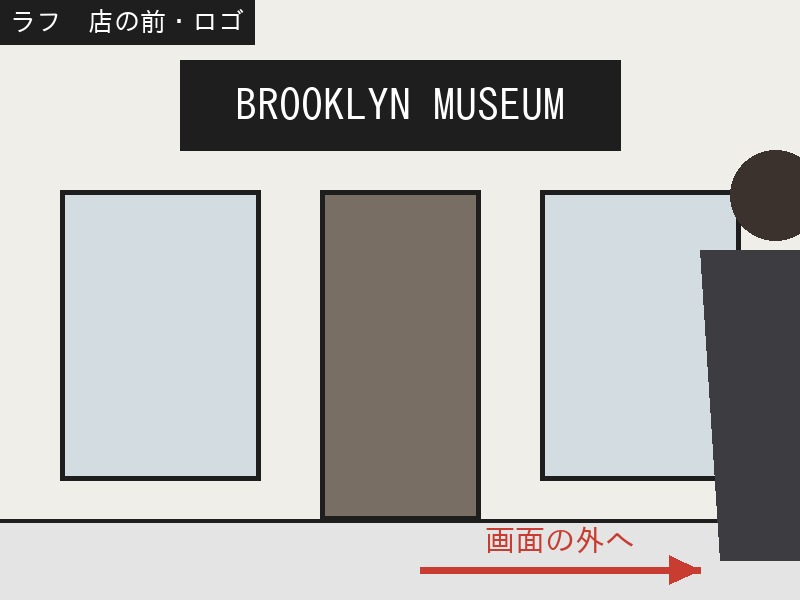
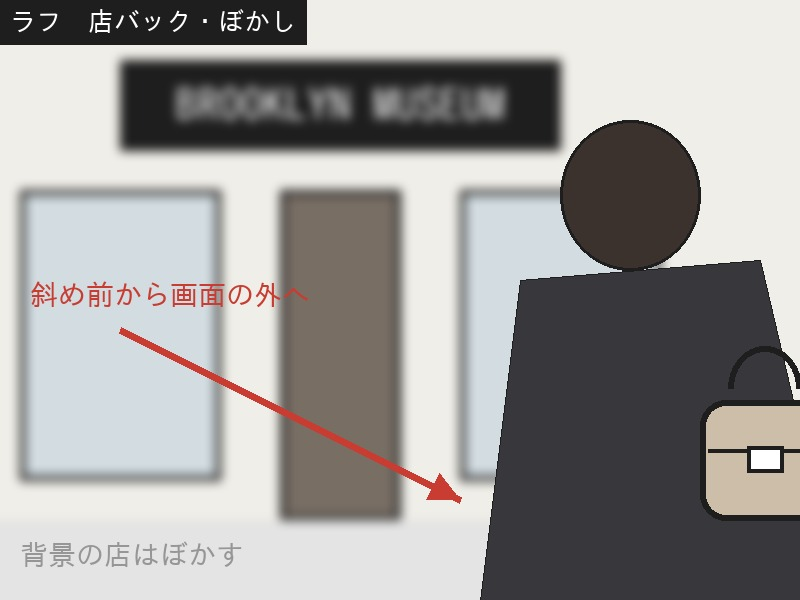
上里さん❷ショット9：店をぼかした背景にし、斜め前からフレームアウトする画に
Claude-Session: https://claude.ai/code/session_01BfbN5jHJfa7zbZdrxGCBGx

diff --git a/pdf/ue1008_ekonte.html b/pdf/ue1008_ekonte.html
@@ -1,1 +1,1 @@
-<html><head><meta charset="utf-8"></head><body style="font-family:Arial"><h2 style="margin:0 0 4pt">❶絵コンテ　3秒　計12秒　参考<a href="https://www.instagram.com/reel/DbGnXCnRMrT/?stkn=MWhvbGVkamlwd3Nn">Link</a></h2><table style="border-collapse:collapse"><tr><td width="25%" style="border:1px solid #999;padding:3px;text-align:center"><img src="https://raw.githubusercontent.com/Shiori0415/dougaseisaku/claude/4-sheets-later-l5chh0/assets/ue1008/t_a1.jpg" width="130" height="305"></td><td width="25%" style="border:1px solid #999;padding:3px;text-align:center"><img src="https://raw.githubusercontent.com/Shiori0415/dougaseisaku/claude/4-sheets-later-l5chh0/assets/ue1008/t_a2.jpg" width="130" height="305"></td><td width="25%" style="border:1px solid #999;padding:3px;text-align:center"><img src="https://raw.githubusercontent.com/Shiori0415/dougaseisaku/claude/4-sheets-later-l5chh0/assets/ue1008/t_a3.jpg" width="130" height="305"></td><td width="25%" style="border:1px solid #999;padding:3px;text-align:center"><img src="https://raw.githubusercontent.com/Shiori0415/dougaseisaku/claude/4-sheets-later-l5chh0/assets/ue1008/t_a4.jpg" width="130" height="305"></td></tr></table><h2 style="margin:8pt 0 4pt">❷絵コンテ　1秒〜3秒　計20秒　参考<a href="https://www.instagram.com/reel/DdEWeatvvig/?stkn=MWN1aDVpdzZnOGZ0ZQ==">Link</a></h2><table style="border-collapse:collapse"><tr><td width="50%" style="border:1px solid #999;padding:3px;text-align:center"><img src="https://raw.githubusercontent.com/Shiori0415/dougaseisaku/claude/4-sheets-later-l5chh0/assets/ue1008/t_s1c.jpg" width="230" height="200"></td><td width="50%" style="border:1px solid #999;padding:3px;text-align:center"><img src="https://raw.githubusercontent.com/Shiori0415/dougaseisaku/claude/4-sheets-later-l5chh0/assets/ue1008/t_s2.jpg" width="230" height="200"></td></tr><tr><td width="50%" style="border:1px solid #999;padding:3px;text-align:center"><img src="https://raw.githubusercontent.com/Shiori0415/dougaseisaku/claude/4-sheets-later-l5chh0/assets/ue1008/t_s3.jpg" width="230" height="200"></td><td width="50%" style="border:1px solid #999;padding:3px;text-align:center"><img src="https://raw.githubusercontent.com/Shiori0415/dougaseisaku/claude/4-sheets-later-l5chh0/assets/ue1008/t_s4.jpg" width="230" height="200"></td></tr><tr><td width="50%" style="border:1px solid #999;padding:3px;text-align:center"><img src="https://raw.githubusercontent.com/Shiori0415/dougaseisaku/claude/4-sheets-later-l5chh0/assets/ue1008/t_s5.jpg" width="230" height="200"></td><td width="50%" style="border:1px solid #999;padding:3px;text-align:center"><img src="https://raw.githubusercontent.com/Shiori0415/dougaseisaku/claude/4-sheets-later-l5chh0/assets/ue1008/t_s6.jpg" width="230" height="200"></td></tr><tr><td width="50%" style="border:1px solid #999;padding:3px;text-align:center"><img src="https://raw.githubusercontent.com/Shiori0415/dougaseisaku/claude/4-sheets-later-l5chh0/assets/ue1008/t_s7.jpg" width="230" height="200"></td><td width="50%" style="border:1px solid #999;padding:3px;text-align:center"><img src="https://raw.githubusercontent.com/Shiori0415/dougaseisaku/claude/4-sheets-later-l5chh0/assets/ue1008/t_s8.jpg" width="230" height="200"></td></tr><tr><td width="50%" style="border:1px solid #999;padding:3px;text-align:center"><img src="https://raw.githubusercontent.com/Shiori0415/dougaseisaku/claude/4-sheets-later-l5chh0/assets/ue1008/t_s9b.jpg" width="230" height="200"></td><td width="50%" style="border:1px solid #999;padding:3px;text-align:center"></td></tr></table></body></html>
+<html><head><meta charset="utf-8"></head><body style="font-family:Arial"><h2 style="margin:0 0 4pt">❶絵コンテ　3秒　計12秒　参考<a href="https://www.instagram.com/reel/DbGnXCnRMrT/?stkn=MWhvbGVkamlwd3Nn">Link</a></h2><table style="border-collapse:collapse"><tr><td width="25%" style="border:1px solid #999;padding:3px;text-align:center"><img src="https://raw.githubusercontent.com/Shiori0415/dougaseisaku/claude/4-sheets-later-l5chh0/assets/ue1008/t_a1.jpg" width="130" height="305"></td><td width="25%" style="border:1px solid #999;padding:3px;text-align:center"><img src="https://raw.githubusercontent.com/Shiori0415/dougaseisaku/claude/4-sheets-later-l5chh0/assets/ue1008/t_a2.jpg" width="130" height="305"></td><td width="25%" style="border:1px solid #999;padding:3px;text-align:center"><img src="https://raw.githubusercontent.com/Shiori0415/dougaseisaku/claude/4-sheets-later-l5chh0/assets/ue1008/t_a3.jpg" width="130" height="305"></td><td width="25%" style="border:1px solid #999;padding:3px;text-align:center"><img src="https://raw.githubusercontent.com/Shiori0415/dougaseisaku/claude/4-sheets-later-l5chh0/assets/ue1008/t_a4.jpg" width="130" height="305"></td></tr></table><h2 style="margin:8pt 0 4pt">❷絵コンテ　1秒〜3秒　計20秒　参考<a href="https://www.instagram.com/reel/DdEWeatvvig/?stkn=MWN1aDVpdzZnOGZ0ZQ==">Link</a></h2><table style="border-collapse:collapse"><tr><td width="50%" style="border:1px solid #999;padding:3px;text-align:center"><img src="https://raw.githubusercontent.com/Shiori0415/dougaseisaku/claude/4-sheets-later-l5chh0/assets/ue1008/t_s1c.jpg" width="230" height="200"></td><td width="50%" style="border:1px solid #999;padding:3px;text-align:center"><img src="https://raw.githubusercontent.com/Shiori0415/dougaseisaku/claude/4-sheets-later-l5chh0/assets/ue1008/t_s2.jpg" width="230" height="200"></td></tr><tr><td width="50%" style="border:1px solid #999;padding:3px;text-align:center"><img src="https://raw.githubusercontent.com/Shiori0415/dougaseisaku/claude/4-sheets-later-l5chh0/assets/ue1008/t_s3.jpg" width="230" height="200"></td><td width="50%" style="border:1px solid #999;padding:3px;text-align:center"><img src="https://raw.githubusercontent.com/Shiori0415/dougaseisaku/claude/4-sheets-later-l5chh0/assets/ue1008/t_s4.jpg" width="230" height="200"></td></tr><tr><td width="50%" style="border:1px solid #999;padding:3px;text-align:center"><img src="https://raw.githubusercontent.com/Shiori0415/dougaseisaku/claude/4-sheets-later-l5chh0/assets/ue1008/t_s5.jpg" width="230" height="200"></td><td width="50%" style="border:1px solid #999;padding:3px;text-align:center"><img src="https://raw.githubusercontent.com/Shiori0415/dougaseisaku/claude/4-sheets-later-l5chh0/assets/ue1008/t_s6.jpg" width="230" height="200"></td></tr><tr><td width="50%" style="border:1px solid #999;padding:3px;text-align:center"><img src="https://raw.githubusercontent.com/Shiori0415/dougaseisaku/claude/4-sheets-later-l5chh0/assets/ue1008/t_s7.jpg" width="230" height="200"></td><td width="50%" style="border:1px solid #999;padding:3px;text-align:center"><img src="https://raw.githubusercontent.com/Shiori0415/dougaseisaku/claude/4-sheets-later-l5chh0/assets/ue1008/t_s8.jpg" width="230" height="200"></td></tr><tr><td width="50%" style="border:1px solid #999;padding:3px;text-align:center"><img src="https://raw.githubusercontent.com/Shiori0415/dougaseisaku/claude/4-sheets-later-l5chh0/assets/ue1008/t_s9c.jpg" width="230" height="200"></td><td width="50%" style="border:1px solid #999;padding:3px;text-align:center"></td></tr></table></body></html>

diff --git a/tools/build_ue1008_rough.py b/tools/build_ue1008_rough.py
@@ -171,23 +171,29 @@ def s7():
 
 
 def s9():
+    from PIL import ImageFilter
     im, d = canvas()
+    # 背景の店：ピントを外してぼかす
     d.rectangle((0, 0, W, 520), fill=(240, 238, 232))
-    d.rectangle((180, 60, 620, 150), fill=INK)  # 看板
-    f = ImageFont.truetype(F, 48)
+    d.rectangle((120, 60, 560, 150), fill=INK)
     f = ImageFont.truetype(F, 44)
     t = "BROOKLYN MUSEUM"
-    d.text((400 - d.textlength(t, font=f) / 2, 82), t, font=f, fill="white")
-    d.rectangle((60, 190, 260, 480), outline=INK, width=5, fill=(210, 220, 225))
-    d.rectangle((540, 190, 740, 480), outline=INK, width=5, fill=(210, 220, 225))
-    d.rectangle((320, 190, 480, 520), outline=INK, width=5, fill=(120, 110, 100))
+    d.text((340 - d.textlength(t, font=f) / 2, 82), t, font=f, fill="white")
+    d.rectangle((20, 190, 220, 480), outline=INK, width=5, fill=(210, 220, 225))
+    d.rectangle((460, 190, 660, 480), outline=INK, width=5, fill=(210, 220, 225))
+    d.rectangle((280, 190, 400, 520), outline=INK, width=5, fill=(120, 110, 100))
     d.rectangle((0, 520, W, H), fill=LIGHT)
-    d.line((0, 520, W, 520), fill=INK, width=4)
-    # 右端で切れていく人
-    d.ellipse((730, 150, 820, 240), fill=(60, 50, 45))
-    d.polygon([(700, 250), (840, 250), (840, 560), (720, 560)], fill=(60, 60, 65))
-    arrow(d, (420, 570), (700, 570), "画面の外へ")
-    tag(d, "ラフ　店の前・ロゴ")
+    im = im.filter(ImageFilter.GaussianBlur(5))
+    d = ImageDraw.Draw(im)
+    # 手前の人：斜め前からカメラの右手前へ抜ける（ピントは人）
+    d.ellipse((560, 120, 700, 270), fill=(60, 50, 45), outline=INK, width=3)
+    d.polygon([(520, 280), (760, 260), (840, 600), (480, 600)], fill=(55, 55, 60), outline=INK)
+    bag(d, (700, 400, 830, 520))
+    arrow(d, (120, 330), (460, 500), None)
+    f2 = ImageFont.truetype(F, 28)
+    d.text((30, 280), "斜め前から画面の外へ", font=f2, fill=RED)
+    d.text((20, 540), "背景の店はぼかす", font=f2, fill=GRAY)
+    tag(d, "ラフ　店バック・ぼかし")
     return im
 
 
